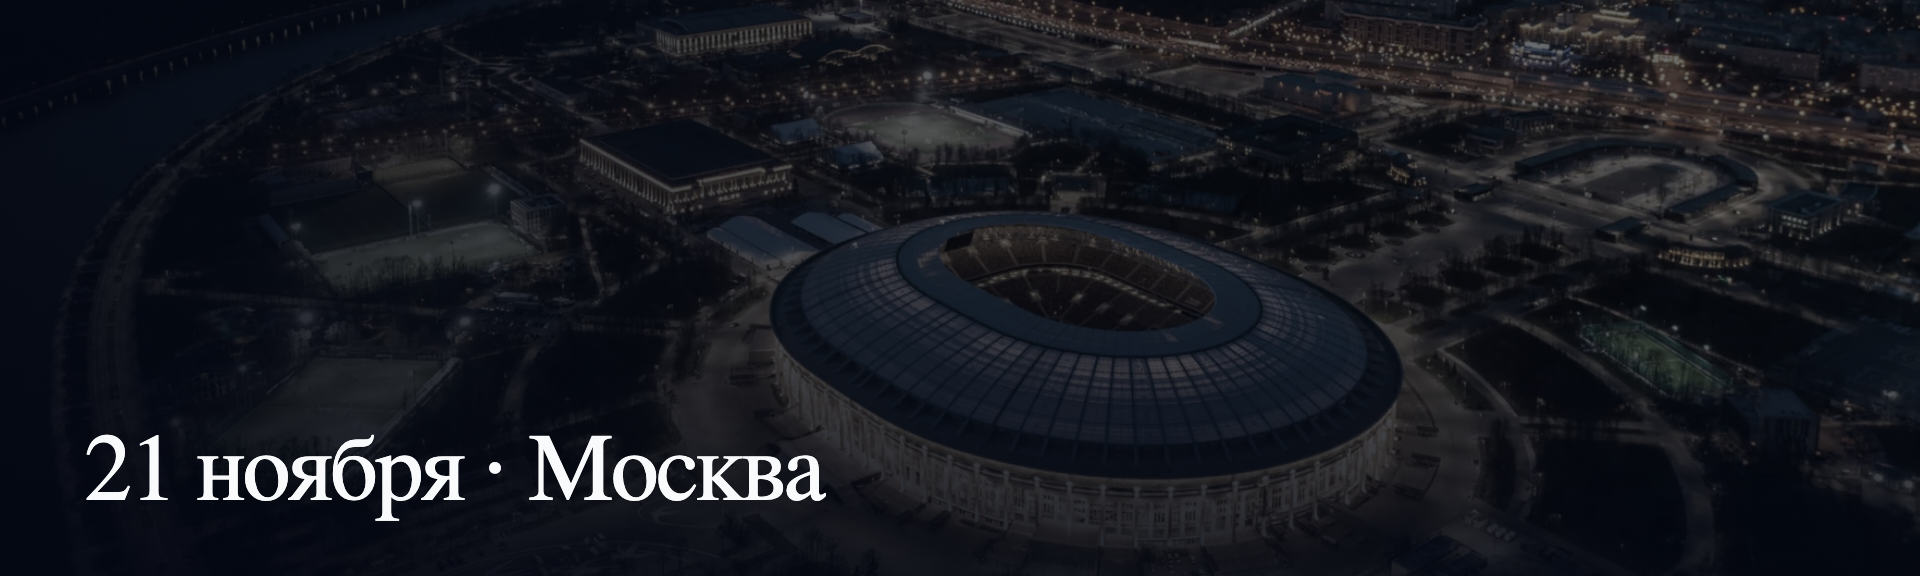
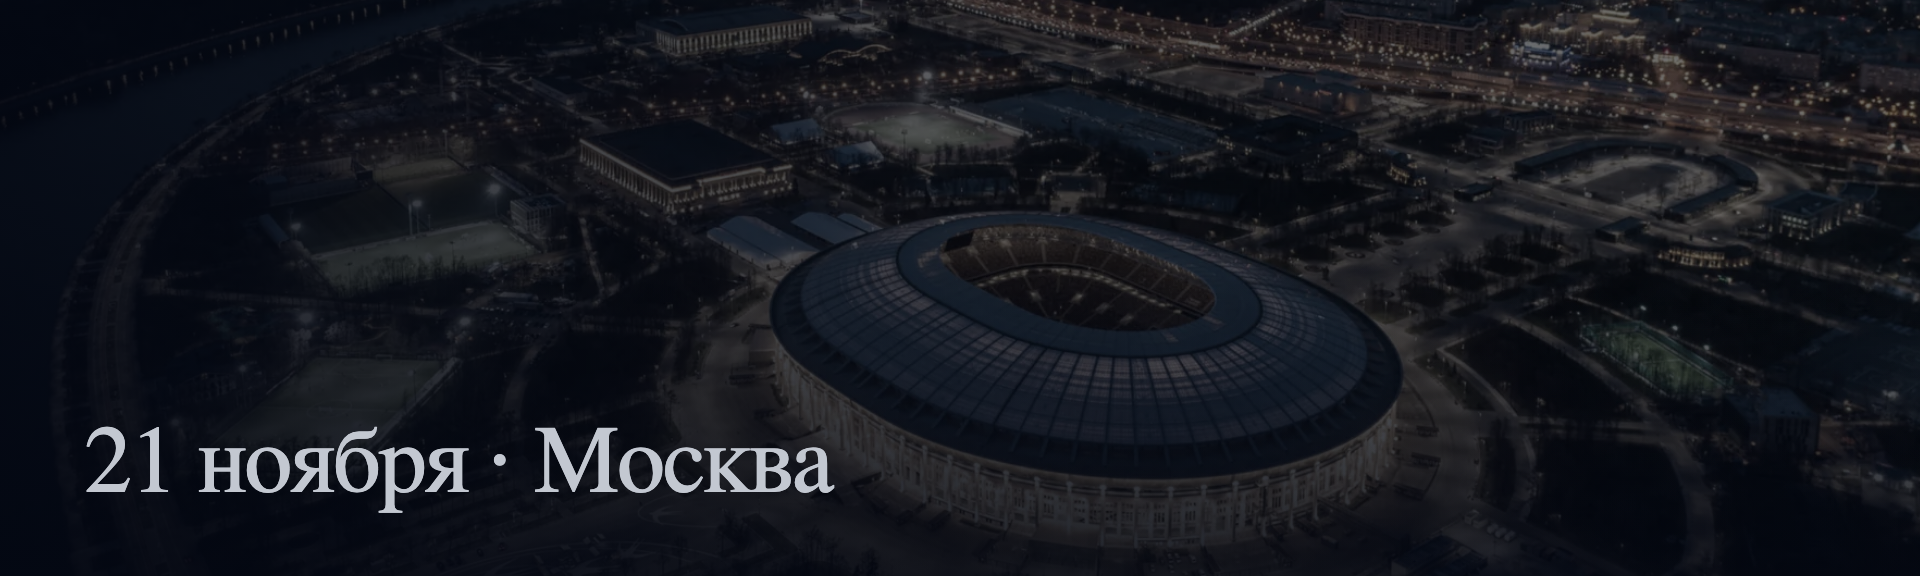
Unify subtitle typography on bot cards

Changed region(s): [[0.0312, 0.7188, 0.4375, 0.9062]]

diff --git a/docs/journal/2026-10-29-bot-welcome-card.md b/docs/journal/2026-10-29-bot-welcome-card.md
@@ -153,3 +153,8 @@
 - Приветственная: `run800.ru` перенесён вверх справа к логотипу; блок «8 тренировок · тест · план» и нижний адрес убраны.
 - Карточка тренировки: убрана подпись «Открытая тренировка»; дата «21 ноября · Москва» — 96 px, Jost 400, как подзаголовок приветственной.
 - Тестовые отправки — message_id 124 и 125.
+
+## Единый шрифт подписей
+
+- Подзаголовок приветственной и дата на карточке тренировки: Jost 400, 96 px в итоговом PNG, цвет `#c3c8d1`, letter-spacing −0.02em, line-height 1.22.
+- Тестовые отправки — message_id 126 и 127.
